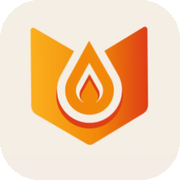
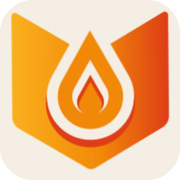
arreglos

diff --git a/frontend/src/stores/gasStations.js b/frontend/src/stores/gasStations.js
@@ -71,10 +71,7 @@ export const useGasStationsStore = defineStore('gasStations', () => {
       distance: haversine(cLat, cLng, s.lat, s.lng),
     }))
 
-    // Apply radius only when a search center (not GPS) is active
-    const inRange = searchCenterLat.value !== null
-      ? withDist.filter(s => s.distance <= SEARCH_RADIUS_KM)
-      : withDist
+    const inRange = withDist.filter(s => s.distance <= SEARCH_RADIUS_KM)
 
     return inRange.sort((a, b) => a.distance - b.distance)
   })

diff --git a/frontend/index.html b/frontend/index.html
@@ -2,7 +2,7 @@
 <html lang="">
   <head>
     <meta charset="UTF-8">
-    <link rel="icon" href="/favicon.ico">
+    <link rel="icon" type="image/png" href="/favicon.png">
     <link rel="apple-touch-icon" href="/apple-touch-icon.png">
     <link rel="manifest" href="/manifest.json">
     <meta name="viewport" content="width=device-width, initial-scale=1.0, maximum-scale=1.0, user-scalable=no">
